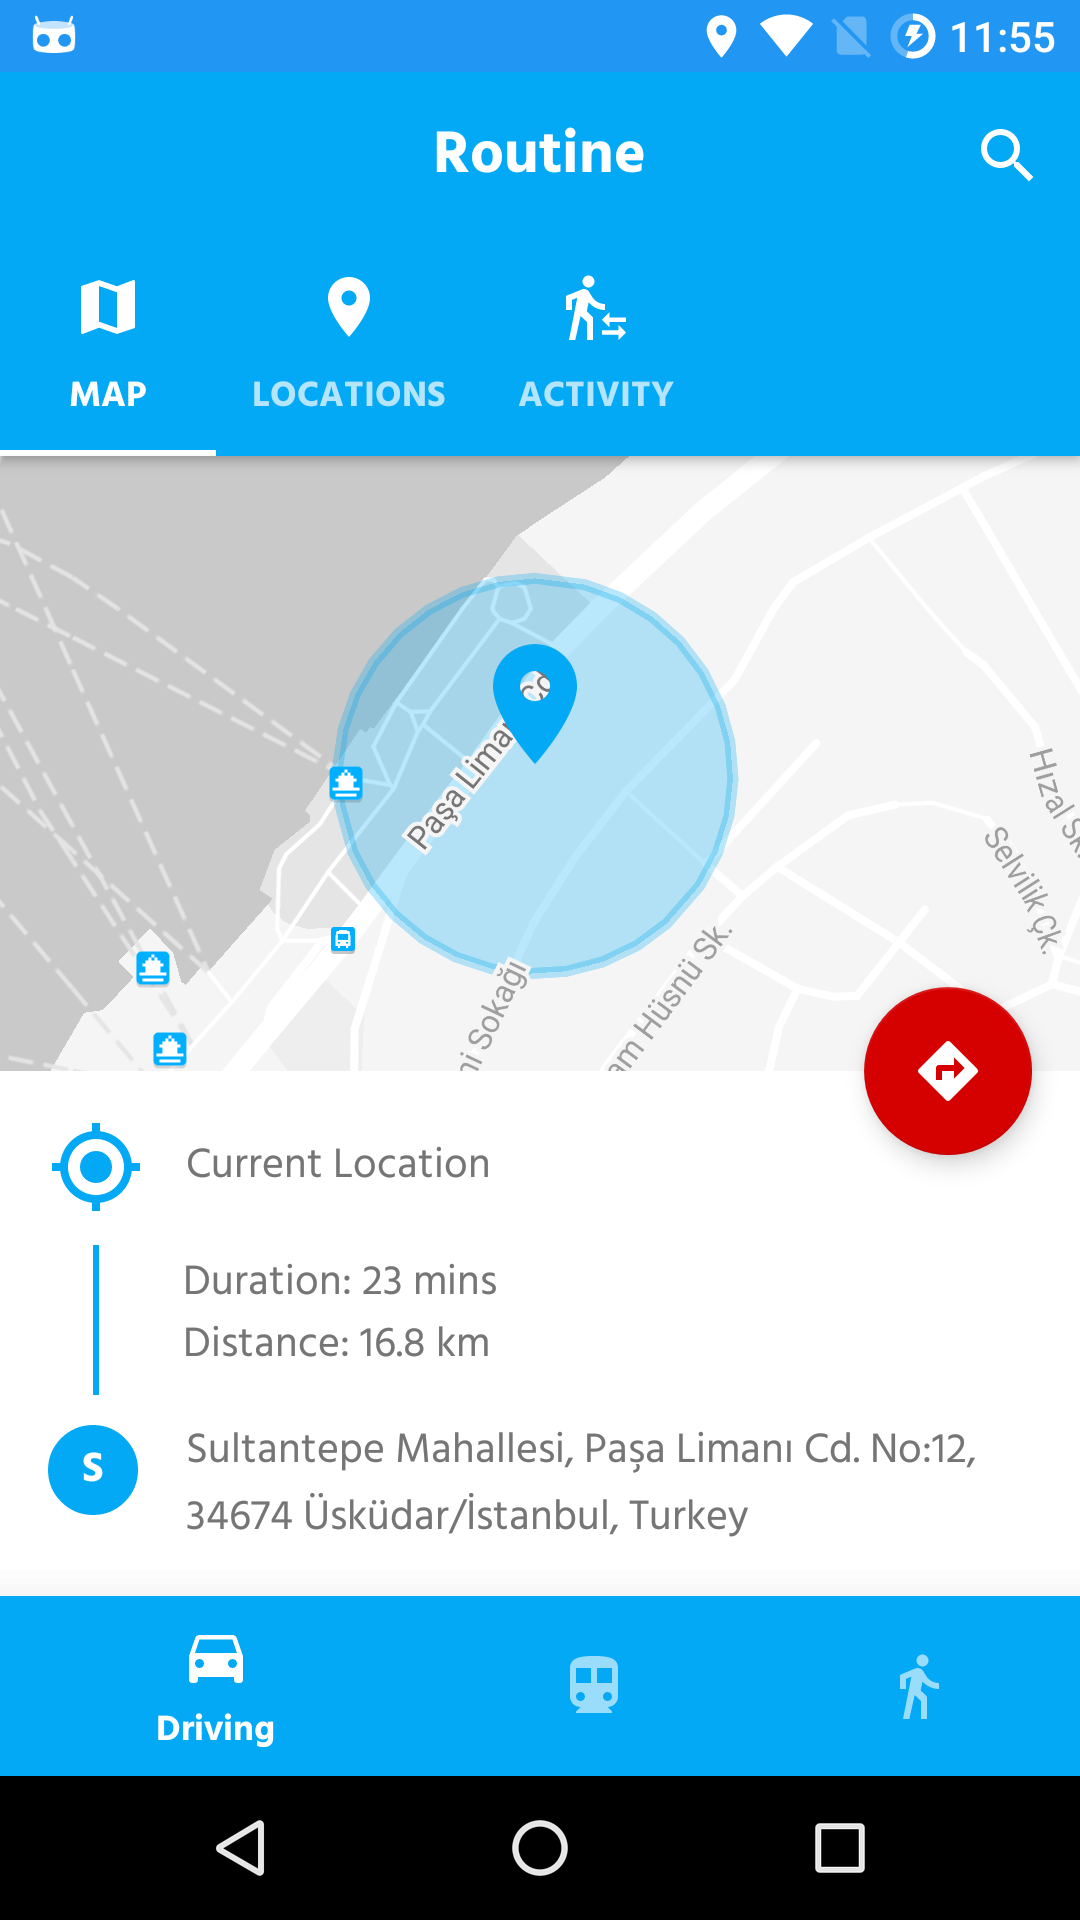
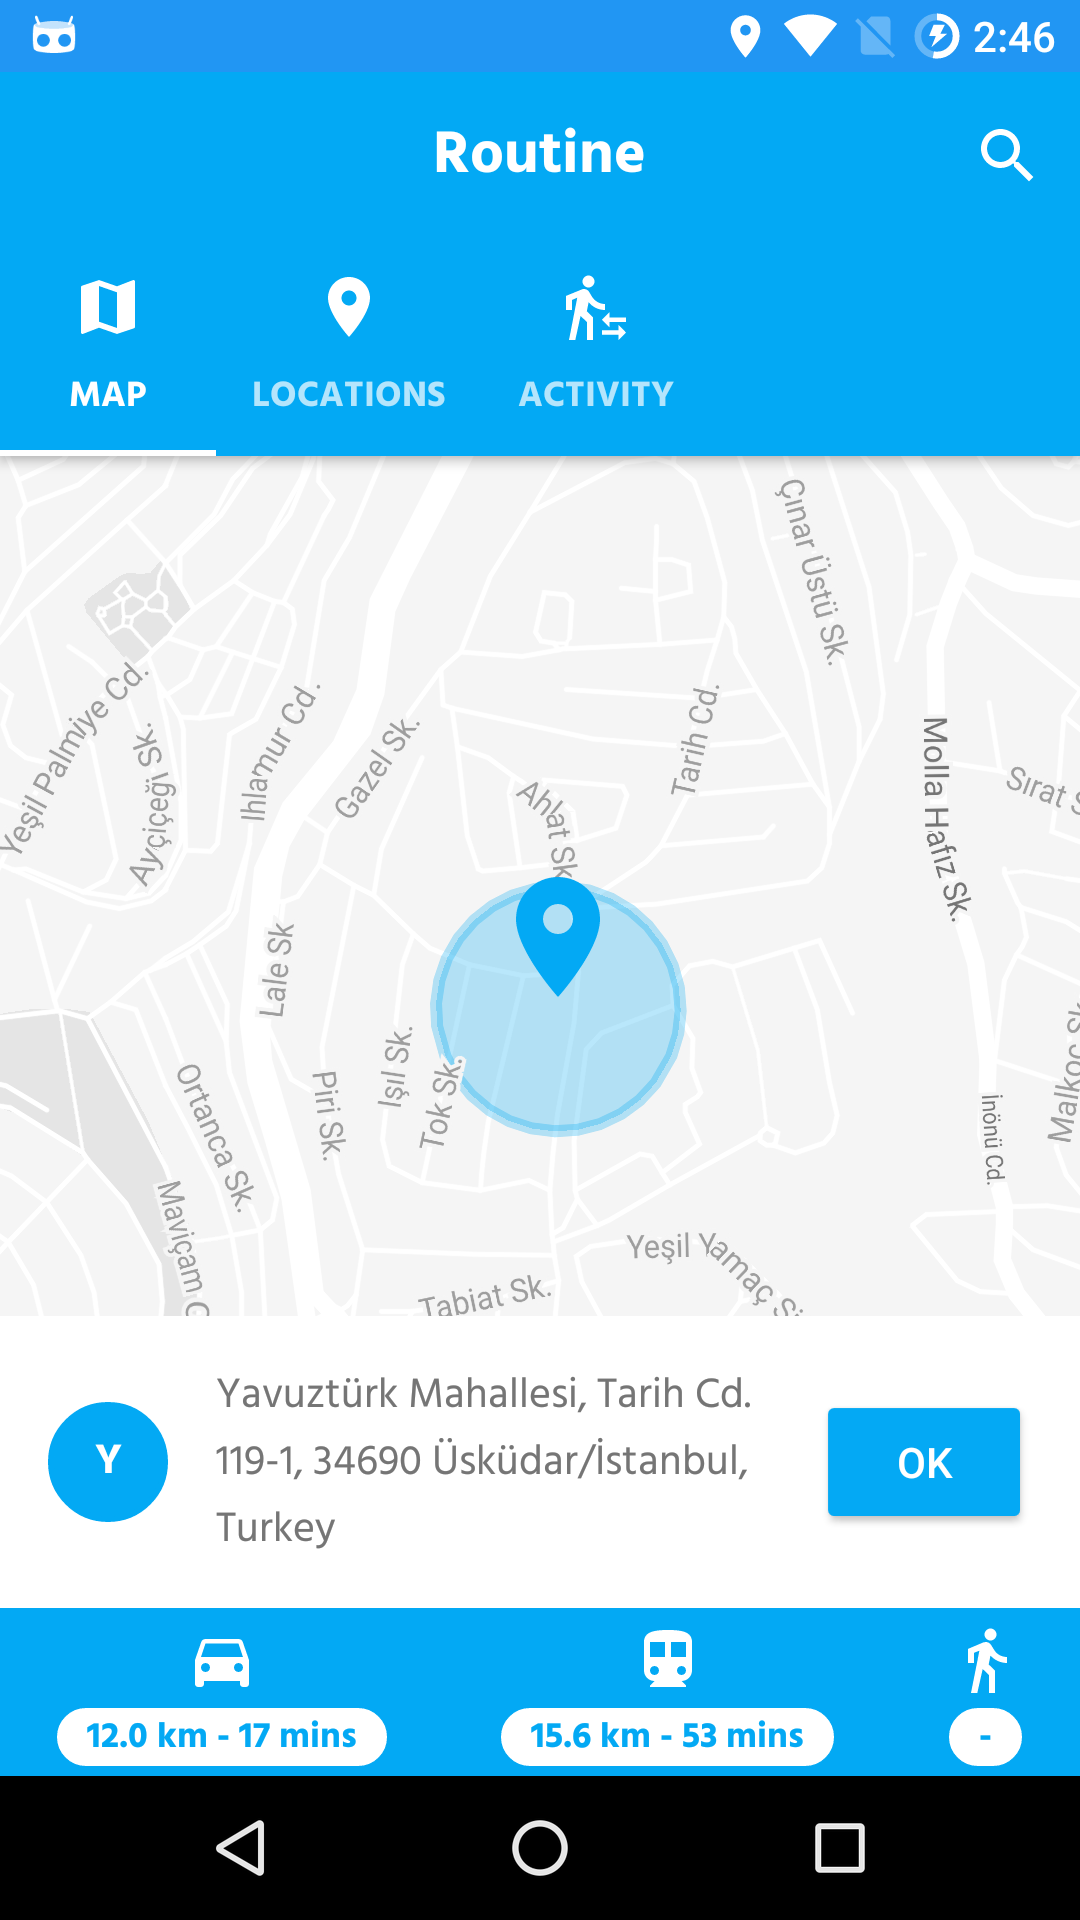
fixed minor design issues

diff --git a/app/src/main/java/com/oguzparlak/wakemeup/ui/activity/MainActivity.java b/app/src/main/java/com/oguzparlak/wakemeup/ui/activity/MainActivity.java
@@ -18,6 +18,7 @@ import android.util.Log;
 import android.view.Menu;
 import android.view.MenuItem;
 import android.view.View;
+import android.widget.Button;
 import android.widget.ImageView;
 import android.widget.ProgressBar;
 import android.widget.TextView;
@@ -63,17 +64,12 @@ public class MainActivity extends AppCompatActivity implements
      */
     @BindView(R.id.toolbar)
     Toolbar mToolbar;
-    @BindView(R.id.add_location_fab)
-    FloatingActionButton mFab;
     @BindView(R.id.view_pager)
     ViewPager mViewPager;
     @BindView(R.id.tabs)
     TabLayout mTabLayout;
     @BindView(R.id.bottom_sheet)
     View mBottomSheet;
-
-    // Fab
-    CoordinatorLayout.LayoutParams mFabLayoutParams;
 
     private GoogleApiClient mGoogleApiClient;
 
@@ -91,6 +87,7 @@ public class MainActivity extends AppCompatActivity implements
     private TextView mTransitInfoTextView;
     private ImageView mErrorImageView;
     private TextView mErrorTextView;
+    private Button mAddGeofenceButton;
 
     /**
      * Geofencing client will register or
@@ -154,13 +151,13 @@ public class MainActivity extends AppCompatActivity implements
                 // Change the alpha of the fab
                 // as the BottomSheet slides
                 if (slideOffset <= 0 && slideOffset >= -1)
-                    mFab.setAlpha(slideOffset + 1);
+                     mAddGeofenceButton.setAlpha(slideOffset + 1);
                 // If the slideOffset has reached the threshold
                 // Disable it, otherwise enable.
                 if (slideOffset <= -1) {
-                    mFab.setClickable(false);
+                    mAddGeofenceButton.setEnabled(false);
                 } else {
-                    mFab.setClickable(true);
+                    mAddGeofenceButton.setEnabled(true);
                 }
             }
         });
@@ -172,8 +169,7 @@ public class MainActivity extends AppCompatActivity implements
         mTransitInfoTextView = mBottomSheet.findViewById(R.id.transit_info_text_view);
         mErrorImageView = mBottomSheet.findViewById(R.id.error_image_view);
         mErrorTextView = mBottomSheet.findViewById(R.id.error_text_view);
-
-        mFabLayoutParams = (CoordinatorLayout.LayoutParams) mFab.getLayoutParams();
+        mAddGeofenceButton = mBottomSheet.findViewById(R.id.add_geofence_button);
     }
 
     private PendingIntent getGeofencingPendingIntent() {
@@ -216,17 +212,17 @@ public class MainActivity extends AppCompatActivity implements
     }
 
     @SuppressLint("MissingPermission")
-    @OnClick(R.id.add_location_fab)
-    void addFabClicked() {
+    @OnClick(R.id.add_geofence_button)
+    void addGeofenceButtonClicked() {
         // TODO Add the Geofence, Need Callback
         mGeofenceBuilder.addGeofence(null);
         // Create a Geofencing Request
         mGeofencingClient.addGeofences(mGeofenceBuilder.getGeofencingRequest(),
                 getGeofencingPendingIntent())
                 .addOnSuccessListener(aVoid -> {
-                    Log.d(TAG, "addFabClicked: geofences_added: should show someting on UI Thread");
+                    Log.d(TAG, "addGeofenceButtonClicked: geofences_added: should show someting on UI Thread");
                 }).addOnFailureListener(e -> {
-                    Log.d(TAG, "addFabClicked: geofence_add_failed: should show error");
+                    Log.d(TAG, "addGeofenceButtonClicked: geofence_add_failed: should show error");
                 });
     }
 
@@ -311,6 +307,9 @@ public class MainActivity extends AppCompatActivity implements
     @Override
     public void onCheckChanged(boolean checked, int id) { }
 
+    /**
+     * DistanceMatrixCallbacks
+     */
     @Override
     public void onPrepare() {
         // Show a progress bar to user
@@ -324,9 +323,6 @@ public class MainActivity extends AppCompatActivity implements
         // Pop BottomSheet
         mBottomSheetBehavior.setPeekHeight(800);
         mBottomSheetBehavior.setState(BottomSheetBehavior.STATE_EXPANDED);
-
-        mFabLayoutParams.setAnchorId(R.id.bottom_sheet);
-        mFab.setLayoutParams(mFabLayoutParams);
 
     }
 
@@ -343,20 +339,11 @@ public class MainActivity extends AppCompatActivity implements
             progressBar.setVisibility(View.INVISIBLE);
 
             if (model == null) {
-                // TODO
-                // Handle error
-                // Reset all UI Components
-                mErrorImageView.setVisibility(View.VISIBLE);
-                mErrorTextView.setVisibility(View.VISIBLE);
-                mAddressIndicator.setVisibility(View.INVISIBLE);
-                mAddressInfoTextView.setVisibility(View.INVISIBLE);
-                mFab.hide();
+                toggleBottomSheetComponents(true);
                 return;
+            } else {
+                toggleBottomSheetComponents(false);
             }
-
-            // Set visible other components
-            mAddressInfoTextView.setVisibility(View.VISIBLE);
-            mAddressIndicator.setVisibility(View.VISIBLE);
 
             mAddressInfoTextView.setText(model.getDestinationAddress());
             mAddressIndicator.setText(model.getDestinationAddress().substring(0, 1));
@@ -377,16 +364,30 @@ public class MainActivity extends AppCompatActivity implements
 
             // If desired location is more than 5 km away
             // Don't update the walking info
-            double distance = Double.parseDouble(model.getDistance().split(" ")[0]);
-            if (distance > 5) {
+            String distance = model.getDistance().split(" ")[0];
+            if (distance.compareTo("5") > 0) {
                 mWalkingInfoTextView.setText("-");
             }
 
-            // Show fab
-            mFab.show();
-
-
         });
+    }
+
+    private void toggleBottomSheetComponents(boolean shouldShowError) {
+        final int visibility = shouldShowError ? View.INVISIBLE : View.VISIBLE;
+        mAddressInfoTextView.setVisibility(visibility);
+        mAddressIndicator.setVisibility(visibility);
+        mAddGeofenceButton.setVisibility(visibility);
+        if (shouldShowError) {
+            mErrorImageView.setVisibility(View.VISIBLE);
+            mErrorTextView.setVisibility(View.VISIBLE);
+            mWalkingInfoTextView.setText(" - ");
+            mDrivingInfoTextView.setText(" - ");
+            mTransitInfoTextView.setText(" - ");
+        } else {
+            mErrorTextView.setVisibility(View.INVISIBLE);
+            mErrorTextView.setVisibility(View.INVISIBLE);
+        }
+
     }
 
 }

diff --git a/app/src/main/java/com/oguzparlak/wakemeup/ui/fragment/MapFragment.java b/app/src/main/java/com/oguzparlak/wakemeup/ui/fragment/MapFragment.java
@@ -37,6 +37,7 @@ import com.google.android.gms.tasks.OnCompleteListener;
 import com.google.android.gms.tasks.Task;
 import com.google.gson.JsonObject;
 import com.oguzparlak.wakemeup.R;
+import com.oguzparlak.wakemeup.constants.Constants;
 import com.oguzparlak.wakemeup.http.MatrixDistanceApiClient;
 import com.oguzparlak.wakemeup.model.MatrixDistanceModel;
 import com.oguzparlak.wakemeup.ui.adapter.MapAdapter;
@@ -231,6 +232,16 @@ public class MapFragment extends Fragment implements GooglePlaceSelectionListene
 
         String[] travelModes = buildTravelModes(distance).toArray(new String[0]);
 
+        // Mark the desired point
+        mMapAdapter.markPoint(latLng);
+
+        // If the distance betweeen two location exceeds
+        // the threshold then pass null object and display error
+        if (distance > Constants.DISTANCE_THRESHOLD) {
+            mDistanceMatrixCallback.onModelReceived(null);
+            return;
+        }
+
         if (isConnected()) {
             // Prepare the BottomSheet
             mDistanceMatrixCallback.onPrepare();
@@ -297,12 +308,7 @@ public class MapFragment extends Fragment implements GooglePlaceSelectionListene
             AlertDialog alertDialog = builder.create();
             alertDialog.show();
             alertDialog.getWindow().setLayout(800, 800);
-
-            return;
         }
-
-        // Mark the desired point
-        mMapAdapter.markPoint(latLng);
     }
 
     /**
@@ -319,12 +325,20 @@ public class MapFragment extends Fragment implements GooglePlaceSelectionListene
                 activeNetwork.isConnectedOrConnecting();
     }
 
+    /**
+     * Prepares the travel mode list
+     * to be sent to DistanceMatrixAPI
+     */
     private List<String> buildTravelModes(float distance) {
         List<String> travelModes = new ArrayList<>();
-        travelModes.add(MatrixDistanceApiClient.MODE_DRIVING);
-        travelModes.add(MatrixDistanceApiClient.MODE_TRANSIT);
-        if (distance < 5000) {
+        if (distance < Constants.DISTANCE_THRESHOLD) {
+            travelModes.add(MatrixDistanceApiClient.MODE_DRIVING);
+        }
+        if (distance < Constants.WALKING_DISTANCE_THRESHOLD) {
             travelModes.add(MatrixDistanceApiClient.MODE_WALKING);
+        }
+        if (distance < Constants.TRANSIT_DISTANCE_THRESHOLD) {
+            travelModes.add(MatrixDistanceApiClient.MODE_TRANSIT);
         }
         return travelModes;
     }

diff --git a/app/src/main/java/com/oguzparlak/wakemeup/http/MatrixDistanceApiClient.java b/app/src/main/java/com/oguzparlak/wakemeup/http/MatrixDistanceApiClient.java
@@ -145,7 +145,7 @@ public class MatrixDistanceApiClient {
                 .appendQueryParameter(PARAM_ORIGIN, buildLatLng(origin))
                 .appendQueryParameter(PARAM_DESTINATION, buildLatLng(destination))
                 .appendQueryParameter(PARAM_KEY, Constants.KEY_DISTANCE_MATRIX_API);
-        if (!(travelMode == null || TextUtils.isEmpty(travelMode))) {
+        if (!TextUtils.isEmpty(travelMode)) {
             builder.appendQueryParameter(PARAM_MODE, travelMode);
         }
         Uri uri = builder.build();

diff --git a/app/src/main/java/com/oguzparlak/wakemeup/constants/Constants.java b/app/src/main/java/com/oguzparlak/wakemeup/constants/Constants.java
@@ -12,6 +12,13 @@ import com.oguzparlak.wakemeup.provider.TaskContract;
 public class Constants {
 
     /**
+     * Distance Thresholds in meters
+     */
+    public static final int WALKING_DISTANCE_THRESHOLD = 5000;
+    public static final int TRANSIT_DISTANCE_THRESHOLD = 60000;
+    public static final int DISTANCE_THRESHOLD = 80000;
+
+    /**
      * Extras
      */
     public static final String DESTINATION_ADDRESS_EXTRA = "destination_extra";
